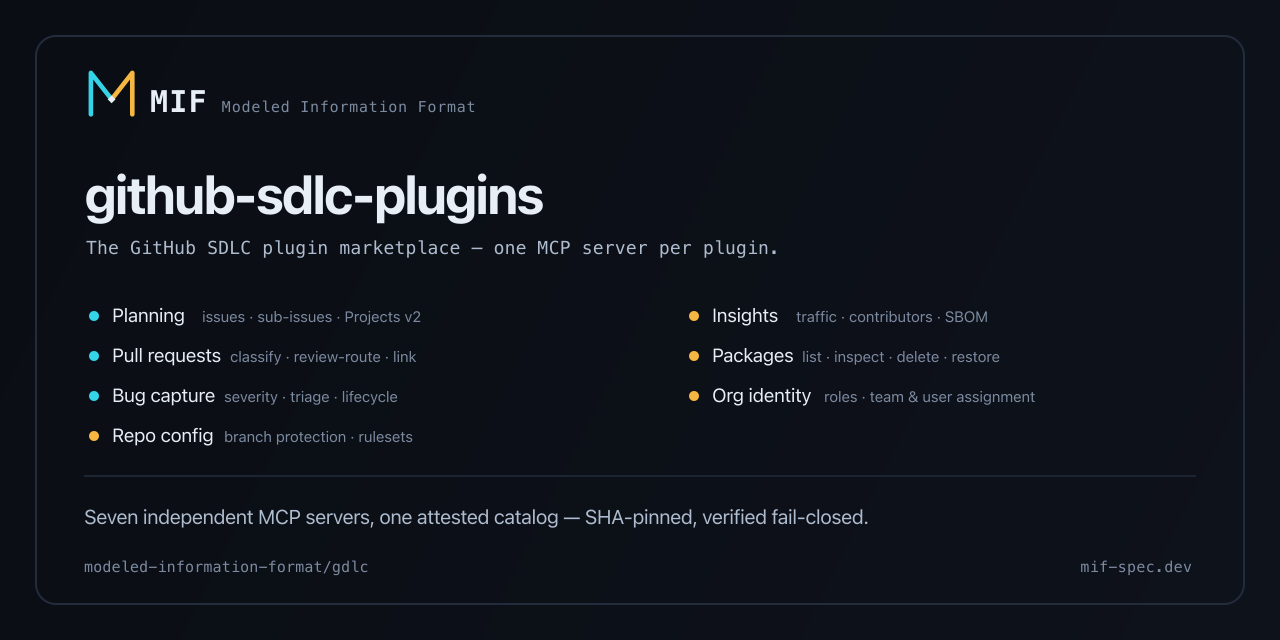
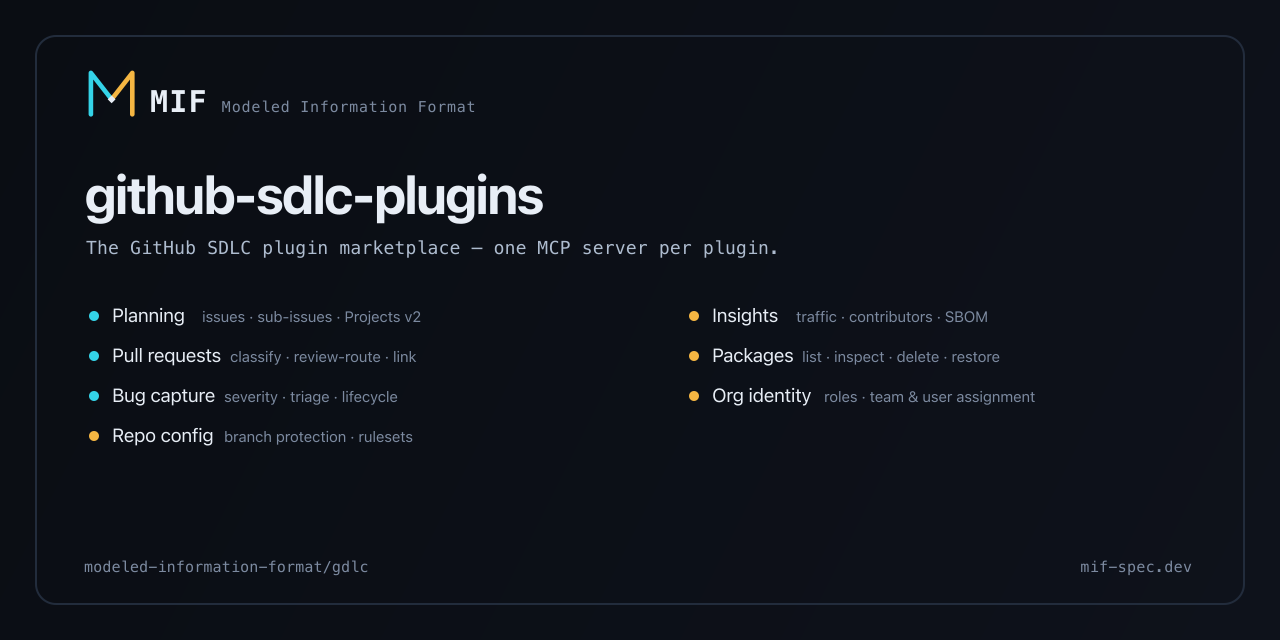
fix: drop attestation-pipeline marketing copy, fix duplicated tab title
Homepage tagline and social-preview art led with SHA-pinning/attestation
messaging as if it were a selling point rather than routine practice;
replaced with plain descriptions of what the seven plugins actually do.
Also set hero.title explicitly so the browser tab (title | site-title)
no longer repeats 'gdlc' twice.

Changed region(s): [[0.0625, 0.7812, 0.6875, 0.8438]]

diff --git a/docs/index.md b/docs/index.md
@@ -1,15 +1,16 @@
 ---
-title: gdlc — the github-sdlc-plugins marketplace
-description: Attested Claude Code plugin marketplace for the GitHub SDLC planning domain — seven plugins, one MCP server each, SHA-pinned and admitted only when their attestation verifies fail-closed.
+title: The github-sdlc-plugins marketplace
+description: Seven Claude Code plugins for the GitHub SDLC — planning, pull requests, bug capture, repo config, insights, packages, and org identity.
 template: splash
 hero:
-  tagline: Seven attested plugins for the GitHub SDLC — SHA-pinned and admitted only when they verify, fail-closed.
+  title: gdlc
+  tagline: Seven Claude Code plugins for the GitHub SDLC — planning, pull requests, bug capture, repo config, insights, packages, and org identity.
   actions:
     - text: Add a plugin
       link: how-to/add-a-plugin/
       icon: right-arrow
-    - text: Verify a release
-      link: security/verify/
+    - text: Plan your first sprint
+      link: how-to/plan-work-with-the-plugins/
       variant: minimal
 ---
 
@@ -29,6 +30,4 @@ hero:
 
 - [Add a plugin](how-to/add-a-plugin/) to the catalog
 - [Plan and track work with the planning and PR plugins](how-to/plan-work-with-the-plugins/)
-- [Verify a release](security/verify/)
-- Browse the [architecture decisions](decisions/) behind the marketplace's design
-- Read [why an attested marketplace](explanation/attested-marketplace/)
+- [Capture and triage bugs](how-to/use-bug-capture/)